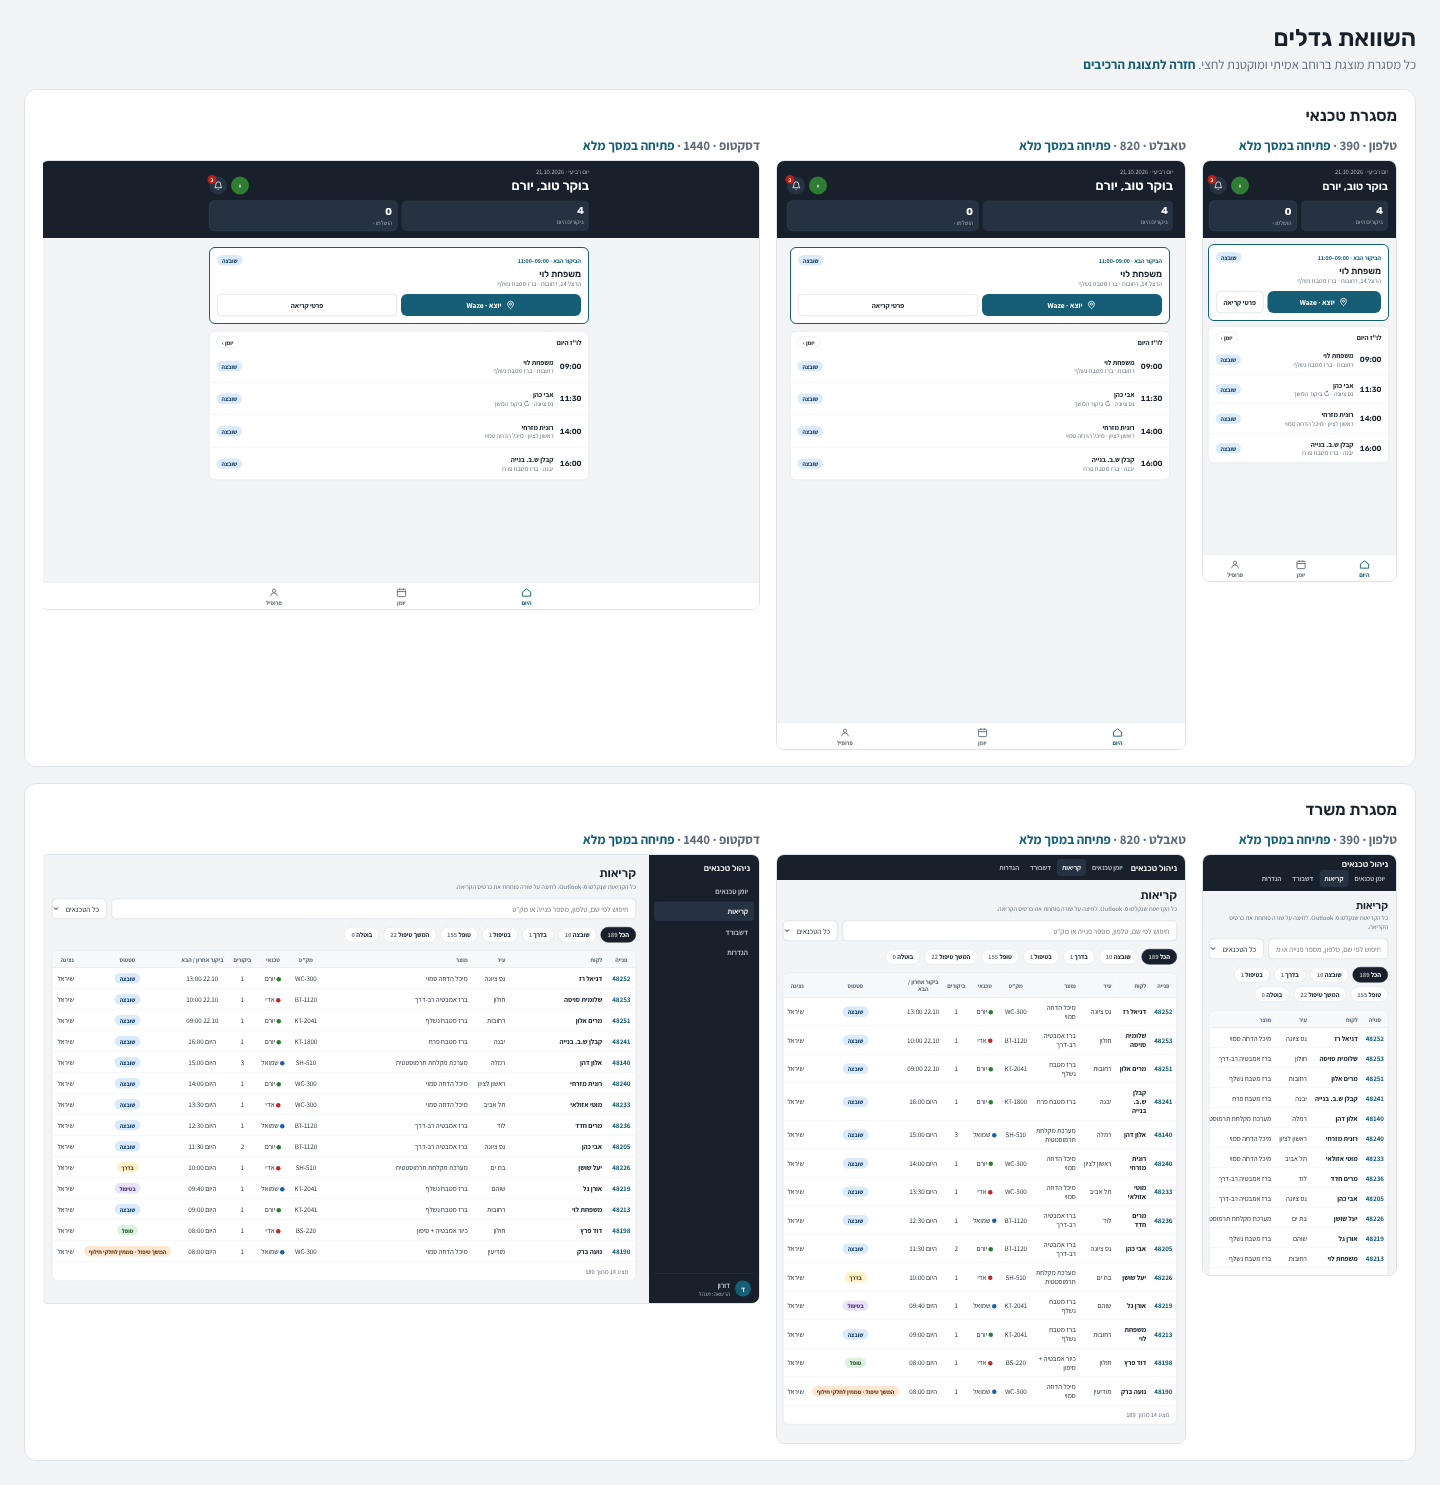
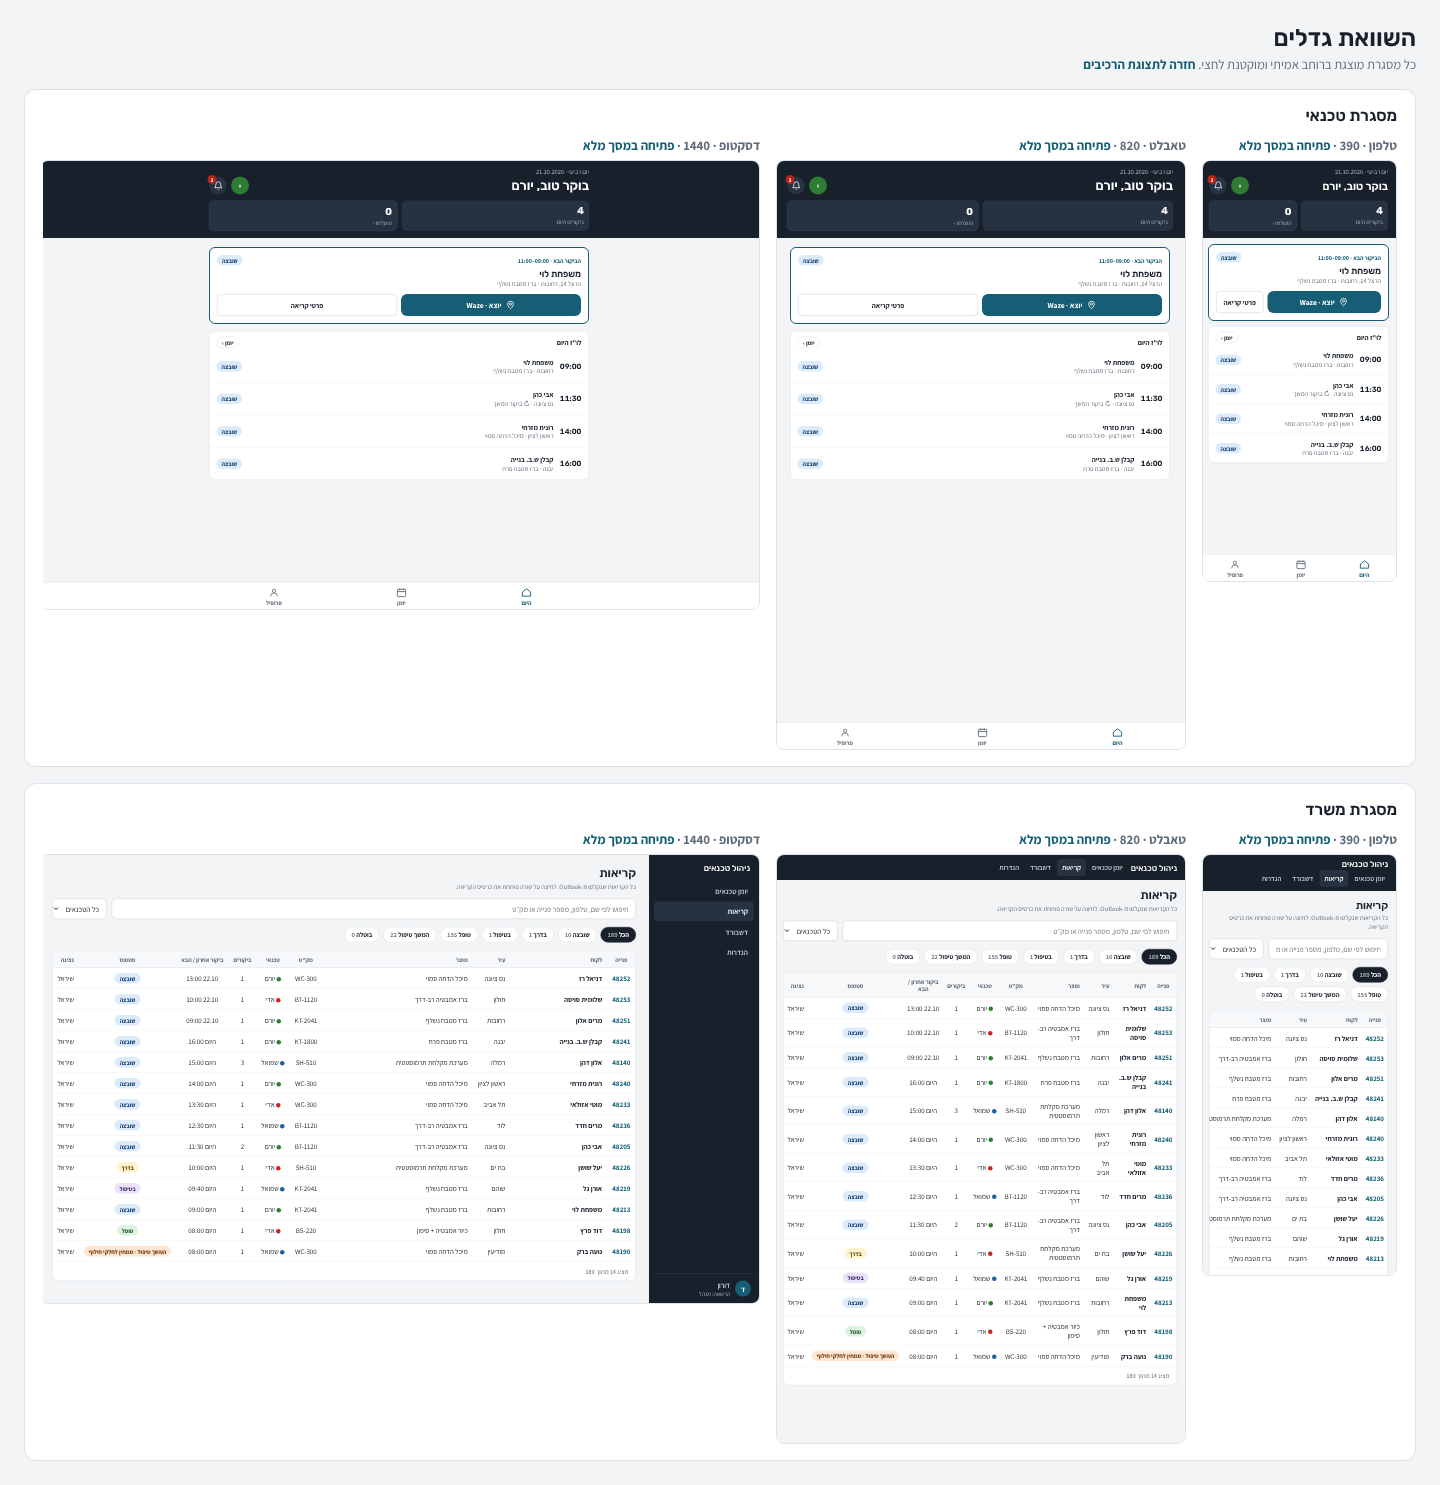
Step 0 review round 1: tablet table headroom (CI fix)
At 820 px GitHub's Chromium rendered the calls table 4 px wider than the
local build (790 > 786), because the layout fitted to the pixel. From
521 to 900 px the long-text columns city and rep may now wrap like
customer and product, so the table overflows only below a 770 px
viewport (about 50 px headroom at 820 px). Screenshots regenerated;
design-system "Tables", demo-deviations G-07 and WORKLOG updated.

Code written by Claude Code under the owner's direction.

Claude-Session: https://claude.ai/code/session_01CCsEFqAXrUKXC3pfzB3yyJ

Changed region(s): [[0.5625, 0.6815, 0.6562, 0.9603], [0.6875, 0.6815, 0.75, 0.9293], [0.7812, 0.6815, 0.8125, 0.9603]]

diff --git a/styles/ui.css b/styles/ui.css
@@ -132,6 +132,10 @@ button.stat:hover { background: var(--ink3); }
 @container stage (min-width: 521px) and (max-width: 900px) {
   td, th { padding-inline: 8px; }
   th.col-fit { white-space: normal; }
+  /* Long-text columns (city, rep) may wrap here like customer and product, so the table keeps
+     headroom for font-rendering differences instead of fitting to the pixel. */
+  td.col-fit:not(.col-center) { width: auto; white-space: normal; }
+  th.col-fit:not(.col-center) { width: auto; }
 }
 /* Desktop (owner review 2026-11-02, TE-31): header and bottom-nav backgrounds stay full width,
    their content aligns with the 760px card column. */

diff --git a/docs/demo-deviations.md b/docs/demo-deviations.md
@@ -38,7 +38,7 @@ Decision IDs like `d05` refer to the owner's decision board. `docs/decisions.md`
 | G-04 | Screens hidden by a client-side `can()` check | CHANGE | Same visibility in UI, **plus** server/RLS enforcement. A hidden button is not access control | security.md §5 |
 | G-05 | Fictitious seed data (customers, phones, addresses) | KEEP (dev only) | Only under `/dev`. Served in development and Vercel Preview, and in Vercel Production only during the testing period behind Vercel Authentication (D31; `config/release.json` `testingPeriod`). Removed from Production at the go-live gate (`docs/deployment.md`). Never present after go-live | security.md, D31 |
 | G-06 | Toasts ending in "(הדמיה)" / "בדמו לא…" | CHANGE | Real action, or no toast. Never claim an action happened when it did not | ROADMAP "Stop immediately if" |
-| G-07 | All tables: every cell right-aligned except the visit count; the browser shares extra width across all columns (a wide gap opens next to the status pill) | CHANGE | Short columns (status, dates, times, counts, technician, SKU, request number) centred and sized to their content; long-text columns (customer, product, city, rep) right-aligned; extra width goes to customer and product. From 521 to 900 px tables use 8 px side padding and the headers of content-sized columns may wrap, so the calls table fits at 820 px; phones keep the demo's single-line table that scrolls sideways. Rule in `docs/design-system.md` ("Tables") | owner 2026-11-02 |
+| G-07 | All tables: every cell right-aligned except the visit count; the browser shares extra width across all columns (a wide gap opens next to the status pill) | CHANGE | Short columns (status, dates, times, counts, technician, SKU, request number) centred and sized to their content; long-text columns (customer, product, city, rep) right-aligned; extra width goes to customer and product. From 521 to 900 px tables use 8 px side padding, headers of content-sized columns may wrap, and city and rep may wrap like customer and product, so the calls table fits at 820 px with headroom; phones keep the demo's single-line table that scrolls sideways. Rule in `docs/design-system.md` ("Tables") | owner 2026-11-02 |
 
 ## Demo-only chrome (DROP)
 

diff --git a/docs/WORKLOG.md b/docs/WORKLOG.md
@@ -5,6 +5,7 @@
 - Anonymous-access check could not run from the Claude Code environment: its network policy denies `*.vercel.app` (proxy 403); not bypassed. The owner checks it in a private window or allows the hosts in the environment settings.
 - Fixed Production address recorded (owner): `technician-management-mody-projects.vercel.app`; Vercel also lists `technician-management.vercel.app` as the project domain.
 - Visual review round 1 (owner): next-visit card buttons 50/50 from 600 px, phone unchanged (demo-deviations TE-33); table rule for all tables: short columns centred and content-sized, long-text right-aligned, extra width to customer and product, tablet compact padding and wrapping headers so the calls table fits at 820 px (design-system.md "Tables", demo-deviations G-07). New tests in `tests/e2e/review-round1.spec.ts` (a removed sizing rule fails them).
+- CI failed once on this round: at 820 px GitHub's Chromium rendered the table 4 px wider than the local build (790 > 786); the layout fitted to the pixel. Fixed at the cause: at tablet widths city and rep may wrap like customer and product, so the table now overflows only below a 770 px viewport (about 50 px headroom at 820 px).
 
 ## 2026-11-02 — Step 0 owner review before the first push
 - Owner approved: commit identity option (a) (author and committer = owner's GitHub account `modyprojects`, Claude as co-author in every commit; GitHub shows "Unverified" because the environment signs with its own key; open decision 24 to find verified, transparent signing without the owner's private key); first deployment option (a) (two pushes to the feature branch, read-only check after each, stop and report if not as expected); the two pushes and a Draft PR.

diff --git a/docs/design-system.md b/docs/design-system.md
@@ -24,7 +24,7 @@
 Applies to every table.
 - **Short columns** (status, dates, times, counts, technician, SKU, request number): centred and sized to their content (`col-center col-fit`).
 - **Long-text columns** (customer, product, city, rep): right-aligned. Customer and product take the remaining width; city and rep are sized to their content (`col-fit`).
-- **Tablet (521–900 px):** 8 px side padding (the demo's compact rule) and the headers of content-sized columns may wrap, so a full calls table fits without sideways scrolling.
+- **Tablet (521–900 px):** 8 px side padding (the demo's compact rule); headers of content-sized columns may wrap, and city and rep may wrap like customer and product, so a full calls table fits without sideways scrolling with headroom (about 50 px at 820 px) for font-rendering differences between browsers.
 - **Phone (520 px and below):** as in the demo: single-line cells and sideways scrolling inside `.scrollx`.
 - Checked by `tests/e2e/review-round1.spec.ts` at 390 / 820 / 1440 px.
 

diff --git a/docs/review/step-0/README.md b/docs/review/step-0/README.md
@@ -1,7 +1,7 @@
 # Step 0 review screenshots
 
 Fictitious data only. Taken with `npm run screenshots` (Playwright, Chromium) from a local production
-build of commit `76b4aa2`, at 390 x 844, 820 x 1180 and 1440 x 900 px. Demo references come from
+build of the commit that contains them (latest: "Step 0 review round 1: tablet table headroom"), at 390 x 844, 820 x 1180 and 1440 x 900 px. Demo references come from
 `docs/demo.html` with its demo bar hidden.
 
 | Width | Technician shell | Office shell | Other |
